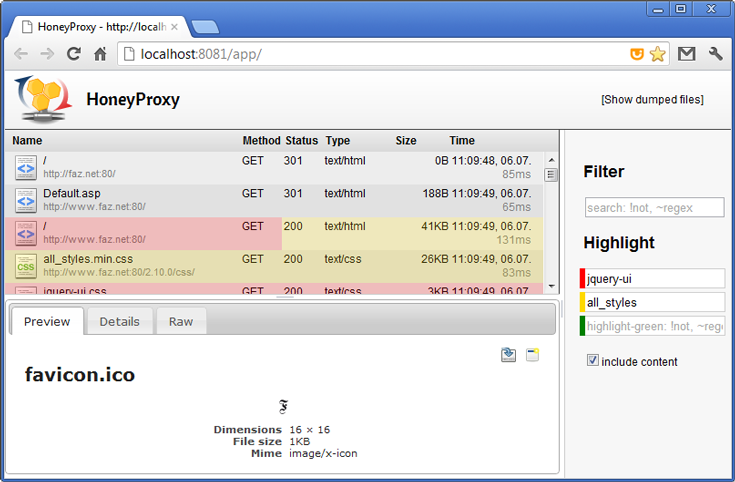
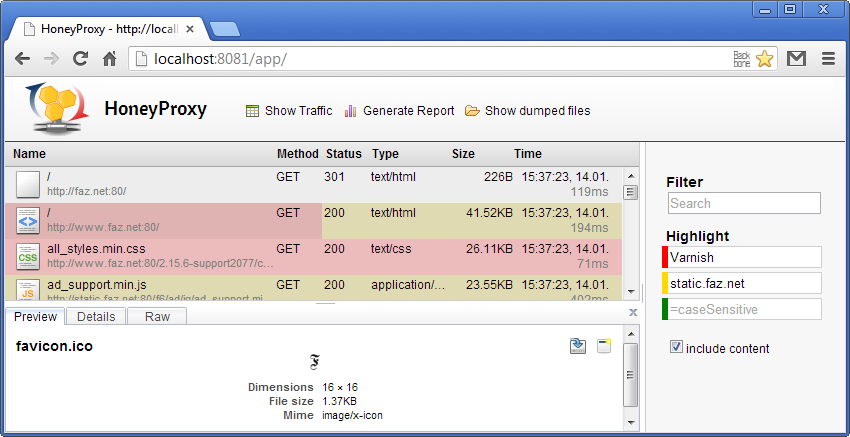
update web for 1.1 release

diff --git a/web/css/style.css b/web/css/style.css
@@ -1,1 +1,1 @@
-article,aside,details,figcaption,figure,footer,header,hgroup,nav,section{display:block}audio,canvas,video{display:inline-block;*display:inline;*zoom:1}audio:not([controls]){display:none}[hidden]{display:none}html{font-size:100%;-webkit-text-size-adjust:100%;-ms-text-size-adjust:100%}html,button,input,select,textarea{font-family:sans-serif;color:#222}body{margin:0;font-size:1em;line-height:1.4}::-moz-selection{background:#eb2314;color:#fff;text-shadow:none}::selection{background:#eb2314;color:#fff;text-shadow:none}a{color:#00e}a:visited{color:#551a8b}a:hover{color:#06e}a:focus{outline:thin dotted}a:hover,a:active{outline:0}abbr[title]{border-bottom:1px dotted}b,strong{font-weight:bold}blockquote{margin:1em 40px}dfn{font-style:italic}hr{display:block;height:1px;border:0;border-top:1px solid #ccc;margin:1em 0;padding:0}ins{background:#ff9;color:#000;text-decoration:none}mark{background:#ff0;color:#000;font-style:italic;font-weight:bold}pre,code,kbd,samp{font-family:monospace,serif;_font-family:'courier new',monospace;font-size:1em}pre{white-space:pre;white-space:pre-wrap;word-wrap:break-word}q{quotes:none}q:before,q:after{content:"";content:none}small{font-size:85%}sub,sup{font-size:75%;line-height:0;position:relative;vertical-align:baseline}sup{top:-0.5em}sub{bottom:-0.25em}ul,ol{margin:1em 0;padding:0 0 0 40px}dd{margin:0 0 0 40px}nav ul,nav ol{list-style:none;list-style-image:none;margin:0;padding:0}img{border:0;-ms-interpolation-mode:bicubic;vertical-align:middle}svg:not(:root){overflow:hidden}figure{margin:0}form{margin:0}fieldset{border:0;margin:0;padding:0}label{cursor:pointer}legend{border:0;*margin-left:-7px;padding:0;white-space:normal}button,input,select,textarea{font-size:100%;margin:0;vertical-align:baseline;*vertical-align:middle}button,input{line-height:normal}button,input[type="button"],input[type="reset"],input[type="submit"]{cursor:pointer;-webkit-appearance:button;*overflow:visible}button[disabled],input[disabled]{cursor:default}input[type="checkbox"],input[type="radio"]{box-sizing:border-box;padding:0;*width:13px;*height:13px}input[type="search"]{-webkit-appearance:textfield;-moz-box-sizing:content-box;-webkit-box-sizing:content-box;box-sizing:content-box}input[type="search"]::-webkit-search-decoration,input[type="search"]::-webkit-search-cancel-button{-webkit-appearance:none}button::-moz-focus-inner,input::-moz-focus-inner{border:0;padding:0}textarea{overflow:auto;vertical-align:top;resize:vertical}input:invalid,textarea:invalid{background-color:#f0dddd}table{border-collapse:collapse;border-spacing:0}td{vertical-align:top}.chromeframe{margin:.2em 0;background:#ccc;color:black;padding:.2em 0}body,html{color:#0d0d0d;height:100%}body{font-size:16px;background-color:#adf;background-image:-webkit-radial-gradient(center top,circle closest-corner,#fff 0,#adf 100%);background-image:-moz-radial-gradient(center top,circle closest-corner,#fff 0,#adf 100%);background-image:radial-gradient(center top,circle closest-corner,#fff 0,#adf 100%);background-repeat:no-repeat;background-size:100% 100%}header,#main,footer{width:800px;margin:0 auto}#logo{float:left;margin:5px 10px}#topnav{list-decoration:none;margin-top:20px;float:right}#topnav li{display:inline-block;background-color:rgba(255,255,255,0.5);margin-left:15px;padding:3px 7px;border-radius:4px;-webkit-transition:all .2s;-moz-transition:all .2s;transition:all .2s}#topnav li:hover{background-color:rgba(255,255,255,0.8);box-shadow:0 0 8px -4px #000}#topnav li:active{box-shadow:0 0 8px -4px #000,inset 0 0 8px -4px #000}#topnav a{color:#0d0d0d}header a,header a:visited{color:#0d0d0d}header h1{margin-bottom:0}header h2{font-size:16px;margin-top:0}a,a:visited{text-decoration:none;color:#080881}.box{background-color:#fff;padding:32px;-webkit-box-shadow:0 1px 4px rgba(0,0,0,0.3),0 0 40px rgba(0,0,0,0.1) inset;-moz-box-shadow:0 1px 4px rgba(0,0,0,0.3),0 0 40px rgba(0,0,0,0.1) inset;box-shadow:0 1px 4px rgba(0,0,0,0.3),0 0 40px rgba(0,0,0,0.1) inset}.box.download{padding:0}.box>iframe{border:0;padding:0;margin:0;width:100%;min-height:500px}.current-state{margin:0 auto}.intro{margin:3em 0}.smalltext{font-size:.85em}code{margin:0 2px;padding:0 5px;white-space:nowrap;border:1px solid #ebebeb;background-color:#f7f7f7;border-radius:3px;font-family:Consolas,"Liberation Mono",Courier,monospace;font-size:.8em}h2{margin:.2em 0;padding:0}h2:target{margin:.1em -32px;padding:.1em 32px;background-image:-webkit-linear-gradient(left,rgba(255,255,0,0.4),rgba(255,255,0,0.2))}footer p{text-align:right;padding:8px 3px;font-size:10px}.ir{display:block;border:0;text-indent:-999em;overflow:hidden;background-color:transparent;background-repeat:no-repeat;text-align:left;direction:ltr;*line-height:0}.ir br{display:none}.hidden{display:none!important;visibility:hidden}.visuallyhidden{border:0;clip:rect(0 0 0 0);height:1px;margin:-1px;overflow:hidden;padding:0;position:absolute;width:1px}.visuallyhidden.focusable:active,.visuallyhidden.focusable:focus{clip:auto;height:auto;margin:0;overflow:visible;position:static;width:auto}.invisible{visibility:hidden}.clearfix:before,.clearfix:after{content:"";display:table}.clearfix:after{clear:both}.clearfix{*zoom:1}@media print{*{background:transparent!important;color:black!important;box-shadow:none!important;text-shadow:none!important;filter:none!important;-ms-filter:none!important}a,a:visited{text-decoration:underline}a[href]:after{content:" (" attr(href) ")"}abbr[title]:after{content:" (" attr(title) ")"}.ir a:after,a[href^="javascript:"]:after,a[href^="#"]:after{content:""}pre,blockquote{border:1px solid #999;page-break-inside:avoid}thead{display:table-header-group}tr,img{page-break-inside:avoid}img{max-width:100%!important}@page{margin:.5cm}p,h2,h3{orphans:3;widows:3}h2,h3{page-break-after:avoid}}
+article,aside,details,figcaption,figure,footer,header,hgroup,nav,section{display:block}audio,canvas,video{display:inline-block;*display:inline;*zoom:1}audio:not([controls]){display:none}[hidden]{display:none}html{font-size:100%;-webkit-text-size-adjust:100%;-ms-text-size-adjust:100%}html,button,input,select,textarea{font-family:sans-serif;color:#222}body{margin:0;font-size:1em;line-height:1.4}::-moz-selection{background:#eb2314;color:#fff;text-shadow:none}::selection{background:#eb2314;color:#fff;text-shadow:none}a{color:#00e}a:visited{color:#551a8b}a:hover{color:#06e}a:focus{outline:thin dotted}a:hover,a:active{outline:0}abbr[title]{border-bottom:1px dotted}b,strong{font-weight:bold}blockquote{margin:1em 40px}dfn{font-style:italic}hr{display:block;height:1px;border:0;border-top:1px solid #ccc;margin:1em 0;padding:0}ins{background:#ff9;color:#000;text-decoration:none}mark{background:#ff0;color:#000;font-style:italic;font-weight:bold}pre,code,kbd,samp{font-family:monospace,serif;_font-family:'courier new',monospace;font-size:1em}pre{white-space:pre;white-space:pre-wrap;word-wrap:break-word}q{quotes:none}q:before,q:after{content:"";content:none}small{font-size:85%}sub,sup{font-size:75%;line-height:0;position:relative;vertical-align:baseline}sup{top:-0.5em}sub{bottom:-0.25em}ul,ol{margin:1em 0;padding:0 0 0 40px}dd{margin:0 0 0 40px}nav ul,nav ol{list-style:none;list-style-image:none;margin:0;padding:0}img{border:0;-ms-interpolation-mode:bicubic;vertical-align:middle}svg:not(:root){overflow:hidden}figure{margin:0}form{margin:0}fieldset{border:0;margin:0;padding:0}label{cursor:pointer}legend{border:0;*margin-left:-7px;padding:0;white-space:normal}button,input,select,textarea{font-size:100%;margin:0;vertical-align:baseline;*vertical-align:middle}button,input{line-height:normal}button,input[type="button"],input[type="reset"],input[type="submit"]{cursor:pointer;-webkit-appearance:button;*overflow:visible}button[disabled],input[disabled]{cursor:default}input[type="checkbox"],input[type="radio"]{box-sizing:border-box;padding:0;*width:13px;*height:13px}input[type="search"]{-webkit-appearance:textfield;-moz-box-sizing:content-box;-webkit-box-sizing:content-box;box-sizing:content-box}input[type="search"]::-webkit-search-decoration,input[type="search"]::-webkit-search-cancel-button{-webkit-appearance:none}button::-moz-focus-inner,input::-moz-focus-inner{border:0;padding:0}textarea{overflow:auto;vertical-align:top;resize:vertical}input:invalid,textarea:invalid{background-color:#f0dddd}table{border-collapse:collapse;border-spacing:0}td{vertical-align:top}.chromeframe{margin:.2em 0;background:#ccc;color:black;padding:.2em 0}body,html{color:#0d0d0d;height:100%}body{font-size:16px;background-color:#adf;background-image:-webkit-radial-gradient(center top,circle closest-corner,#fff 0,#adf 100%);background-image:-moz-radial-gradient(center top,circle closest-corner,#fff 0,#adf 100%);background-image:radial-gradient(center top,circle closest-corner,#fff 0,#adf 100%);background-repeat:no-repeat;background-size:100% 100%}header,#main,footer{width:915px;margin:0 auto}#logo{float:left;margin:5px 10px}#topnav{list-decoration:none;margin-top:20px;float:right}#topnav li{display:inline-block;background-color:rgba(255,255,255,0.5);margin-left:15px;padding:3px 7px;border-radius:4px;-webkit-transition:all .2s;-moz-transition:all .2s;transition:all .2s}#topnav li:hover{background-color:rgba(255,255,255,0.8);box-shadow:0 0 8px -4px #000}#topnav li:active{box-shadow:0 0 8px -4px #000,inset 0 0 8px -4px #000}#topnav a{color:#0d0d0d}header a,header a:visited{color:#0d0d0d}header h1{margin-bottom:0}header h2{font-size:16px;margin-top:0}a,a:visited{text-decoration:none;color:#080881}.box{background-color:#fff;padding:32px;-webkit-box-shadow:0 1px 4px rgba(0,0,0,0.3),0 0 40px rgba(0,0,0,0.1) inset;-moz-box-shadow:0 1px 4px rgba(0,0,0,0.3),0 0 40px rgba(0,0,0,0.1) inset;box-shadow:0 1px 4px rgba(0,0,0,0.3),0 0 40px rgba(0,0,0,0.1) inset}.box.download{padding:0}.box>iframe{border:0;padding:0;margin:0;width:100%;min-height:500px}.current-state{margin:0 auto}.intro{margin:3em 0}.smalltext{font-size:.85em}.date{float:right;margin:1.3em .5em}.news-image{float:right;margin-left:1em;margin-bottom:1em}code{margin:0 2px;padding:0 5px;white-space:nowrap;border:1px solid #ebebeb;background-color:#f7f7f7;border-radius:3px;font-family:Consolas,"Liberation Mono",Courier,monospace;font-size:.8em}h2{margin:.2em 0;padding:0}h2:target{margin:.1em -32px;padding:.1em 32px;background-image:-webkit-linear-gradient(left,rgba(255,255,0,0.4),rgba(255,255,0,0.2))}footer p{text-align:right;padding:8px 3px;font-size:10px}.ir{display:block;border:0;text-indent:-999em;overflow:hidden;background-color:transparent;background-repeat:no-repeat;text-align:left;direction:ltr;*line-height:0}.ir br{display:none}.hidden{display:none!important;visibility:hidden}.visuallyhidden{border:0;clip:rect(0 0 0 0);height:1px;margin:-1px;overflow:hidden;padding:0;position:absolute;width:1px}.visuallyhidden.focusable:active,.visuallyhidden.focusable:focus{clip:auto;height:auto;margin:0;overflow:visible;position:static;width:auto}.invisible{visibility:hidden}.clearfix:before,.clearfix:after{content:"";display:table}.clearfix:after{clear:both}.clearfix{*zoom:1}@media print{*{background:transparent!important;color:black!important;box-shadow:none!important;text-shadow:none!important;filter:none!important;-ms-filter:none!important}a,a:visited{text-decoration:underline}a[href]:after{content:" (" attr(href) ")"}abbr[title]:after{content:" (" attr(title) ")"}.ir a:after,a[href^="javascript:"]:after,a[href^="#"]:after{content:""}pre,blockquote{border:1px solid #999;page-break-inside:avoid}thead{display:table-header-group}tr,img{page-break-inside:avoid}img{max-width:100%!important}@page{margin:.5cm}p,h2,h3{orphans:3;widows:3}h2,h3{page-break-after:avoid}}

diff --git a/web/news.html b/web/news.html
@@ -31,8 +31,44 @@
 	<h2 itemprop="description">a man-in-the-middle SSL proxy & traffic analyzer</h2>
 </header>
 <div id="main">
-	<div class="box download">
-<iframe src="./download"></iframe>
+	<br>
+<span class=date>20. January 2012</span>
+<h3>Release: HoneyProxy 1.1 - <i>Dubai</i></h3>
+<div class=box>
+	
+	<p>
+		Ready for the Honeynet Project Meeting in February, we are pleased to
+		announce our second release of HoneyProxy!<br> This release features a
+		new Report Editor which allows you to analyze your flows, aggregate
+		data or search for anomalies in your traffic dumps. It is our first
+		independent release after Google Summer of Code 2012 and I'm happy to
+		say that HoneyProxy has grown steadily over the last months.
+	</p>
+	<a href="./img/release-dubai-full.png"><img width=300 height=238 alt="Screenshot of the Report Editor" class=news-image src="./img/release-dubai.png"></a>
+	<ul>
+		<li> New Feature: <strong>Report Editor - analyze & aggregate</strong> your traffic (<a href="https://github.com/mhils/HoneyProxy/wiki/Report-Editor-Manual">docs</a>)
+		<li> New Feature: Search for <strong>similar flows</strong>
+		<li> New Feature: Display request and response <strong>checksums</strong>
+		<li> Improvement: PrettyPrint JSON responses
+		<li> Improvement: Show similar flows when hitting a <strong><code>HTTP 304 Not Modified</code></strong> response
+		<li> Improvement: Show subsequent flows when the response causes a redirect (<strong><code>HTTP 301/302/307</code></strong>)
+		<li> Bug Fixes: Many!
+		<li> Internal Changes: Removed dependency on jQuery UI and Google Closure Library
+		<li> Internal Changes: Codebase is now completely AMD-modularized.
+		<li> Other: HoneyProxy 1.1 supports the latest versions of mitmproxy and netlib.
+	</ul>
+	<p>
+		The release name is attributed to the HoneyNet <a href="http://dubai2013.honeynet.org">Project Workshop</a> and Member Meetup in Dubai this February.<br>Thank you for your support!
+	</p>
+</div>
+<span class=date>20. August 2012</span>
+<h3>Release: HoneyProxy 1.0</h3>
+
+<div class=box>
+<p>
+	After a very successful Google Summer of Code 2012, we are pleased to announce the initial release of HoneyProxy.<br>
+	Our proxy has grown steadily over the last months and is considered to be stable now.
+	</p>
 </div>
 </div> 
 <footer>

diff --git a/web/pages/news.html b/web/pages/news.html
@@ -1,0 +1,39 @@
+<br>
+<span class=date>20. January 2012</span>
+<h3>Release: HoneyProxy 1.1 - <i>Dubai</i></h3>
+<div class=box>
+	
+	<p>
+		Ready for the Honeynet Project Meeting in February, we are pleased to
+		announce our second release of HoneyProxy!<br> This release features a
+		new Report Editor which allows you to analyze your flows, aggregate
+		data or search for anomalies in your traffic dumps. It is our first
+		independent release after Google Summer of Code 2012 and I'm happy to
+		say that HoneyProxy has grown steadily over the last months.
+	</p>
+	<a href="./img/release-dubai-full.png"><img width=300 height=238 alt="Screenshot of the Report Editor" class=news-image src="./img/release-dubai.png"></a>
+	<ul>
+		<li> New Feature: <strong>Report Editor - analyze & aggregate</strong> your traffic (<a href="https://github.com/mhils/HoneyProxy/wiki/Report-Editor-Manual">docs</a>)
+		<li> New Feature: Search for <strong>similar flows</strong>
+		<li> New Feature: Display request and response <strong>checksums</strong>
+		<li> Improvement: PrettyPrint JSON responses
+		<li> Improvement: Show similar flows when hitting a <strong><code>HTTP 304 Not Modified</code></strong> response
+		<li> Improvement: Show subsequent flows when the response causes a redirect (<strong><code>HTTP 301/302/307</code></strong>)
+		<li> Bug Fixes: Many!
+		<li> Internal Changes: Removed dependency on jQuery UI and Google Closure Library
+		<li> Internal Changes: Codebase is now completely AMD-modularized.
+		<li> Other: HoneyProxy 1.1 supports the latest versions of mitmproxy and netlib.
+	</ul>
+	<p>
+		The release name is attributed to the HoneyNet <a href="http://dubai2013.honeynet.org">Project Workshop</a> and Member Meetup in Dubai this February.<br>Thank you for your support!
+	</p>
+</div>
+<span class=date>20. August 2012</span>
+<h3>Release: HoneyProxy 1.0</h3>
+
+<div class=box>
+<p>
+	After a very successful Google Summer of Code 2012, we are pleased to announce the initial release of HoneyProxy.<br>
+	Our proxy has grown steadily over the last months and is considered to be stable now.
+	</p>
+</div>

diff --git a/web/index.html b/web/index.html
@@ -19,6 +19,7 @@
 <header>
 	<ul id=topnav>
 		<li><a itemprop="url" href="./">Home</a>
+		<li><a href="./news.html">News</a>
 		<li><a href="./#quickstart">Download</a>
 		<li><a href="https://github.com/mhils/HoneyProxy/wiki/Features">Docs</a>
 		<li><a href="./about.html">About</a>
@@ -31,15 +32,16 @@
 </header>
 <div id="main">
 	<div class=box>
-		<img itemprop="screenshot" class=current-state width=735 height=482 alt="Screenshot of HoneyProxy" src="./img/current-status.png">
+		<img itemprop="screenshot" class=current-state width=850 height=437 alt="Screenshot of HoneyProxy" src="./img/current-status.png">
 		<p class=intro>
 		<strong>HoneyProxy</strong> is a lightweight tool that allows live <strong>HTTP(S) traffic inspection</strong> and analysis.<br>
 		It focuses on features that are useful for malware analysis and network forensics.
 		</p>
 	<h2>Features</h2>
 	<ul>
-		<li>Analyze HTTP(S) traffic on the fly
+		<li>Analyze <strong>HTTP(S)</strong> traffic on the fly
 		<li><strong>Filter</strong> and <strong>highlight</strong> traffic, regex support included.
+		<li><strong>Report Generation</strong> for saved flows, including a live JS editor.
 		<li><strong>Save</strong> HTTP conversations for later analysis
 		<li>Make <strong>scripted changes</strong> with Python, e.g. remove Cache Header.
 		<li>based on and <strong>compatible to <a href="http://mitmproxy.org/">mitmproxy</a></strong>.

diff --git a/web/pages/index.html b/web/pages/index.html
@@ -1,13 +1,14 @@
 <div class=box>
-		<img itemprop="screenshot" class=current-state width=735 height=482 alt="Screenshot of HoneyProxy" src="./img/current-status.png">
+		<img itemprop="screenshot" class=current-state width=850 height=437 alt="Screenshot of HoneyProxy" src="./img/current-status.png">
 		<p class=intro>
 		<strong>HoneyProxy</strong> is a lightweight tool that allows live <strong>HTTP(S) traffic inspection</strong> and analysis.<br>
 		It focuses on features that are useful for malware analysis and network forensics.
 		</p>
 	<h2>Features</h2>
 	<ul>
-		<li>Analyze HTTP(S) traffic on the fly
+		<li>Analyze <strong>HTTP(S)</strong> traffic on the fly
 		<li><strong>Filter</strong> and <strong>highlight</strong> traffic, regex support included.
+		<li><strong>Report Generation</strong> for saved flows, including a live JS editor.
 		<li><strong>Save</strong> HTTP conversations for later analysis
 		<li>Make <strong>scripted changes</strong> with Python, e.g. remove Cache Header.
 		<li>based on and <strong>compatible to <a href="http://mitmproxy.org/">mitmproxy</a></strong>.

diff --git a/web/css/style.less b/web/css/style.less
@@ -25,7 +25,7 @@ body {
 }
 
 header, #main, footer {
-	width: 800px;
+	width: 915px;
 	margin: 0 auto;
 }
 
@@ -125,6 +125,18 @@ a, a:visited {
 .smalltext {
 	font-size: 0.85em;
 }
+
+.date {
+	float:right;
+	margin: 1.3em 0.5em;
+}
+
+.news-image {
+	float: right;
+	margin-left: 1em;
+	margin-bottom: 1em;
+}
+
 
 code {
 	margin: 0 2px;

diff --git a/web/about.html b/web/about.html
@@ -19,6 +19,7 @@
 <header>
 	<ul id=topnav>
 		<li><a itemprop="url" href="./">Home</a>
+		<li><a href="./news.html">News</a>
 		<li><a href="./#quickstart">Download</a>
 		<li><a href="https://github.com/mhils/HoneyProxy/wiki/Features">Docs</a>
 		<li><a href="./about.html">About</a>

diff --git a/web/pages/_template.html b/web/pages/_template.html
@@ -19,6 +19,7 @@
 <header>
 	<ul id=topnav>
 		<li><a itemprop="url" href="./">Home</a>
+		<li><a href="./news.html">News</a>
 		<li><a href="./#quickstart">Download</a>
 		<li><a href="https://github.com/mhils/HoneyProxy/wiki/Features">Docs</a>
 		<li><a href="./about.html">About</a>

diff --git a/libhproxy/version.py b/libhproxy/version.py
@@ -1,4 +1,4 @@
-IVERSION = (1,0) #change in /web/version.json, /gui/js/HoneyProxy/util/versionCheck.js and /libhproxy/version.py
+IVERSION = (1,1) #change in /web/version.json, /gui/js/HoneyProxy/util/versionCheck.js and /libhproxy/version.py
 VERSION = ".".join(str(i) for i in IVERSION)
 NAME = "HoneyProxy"
 NAMEVERSION = NAME + " " + VERSION
